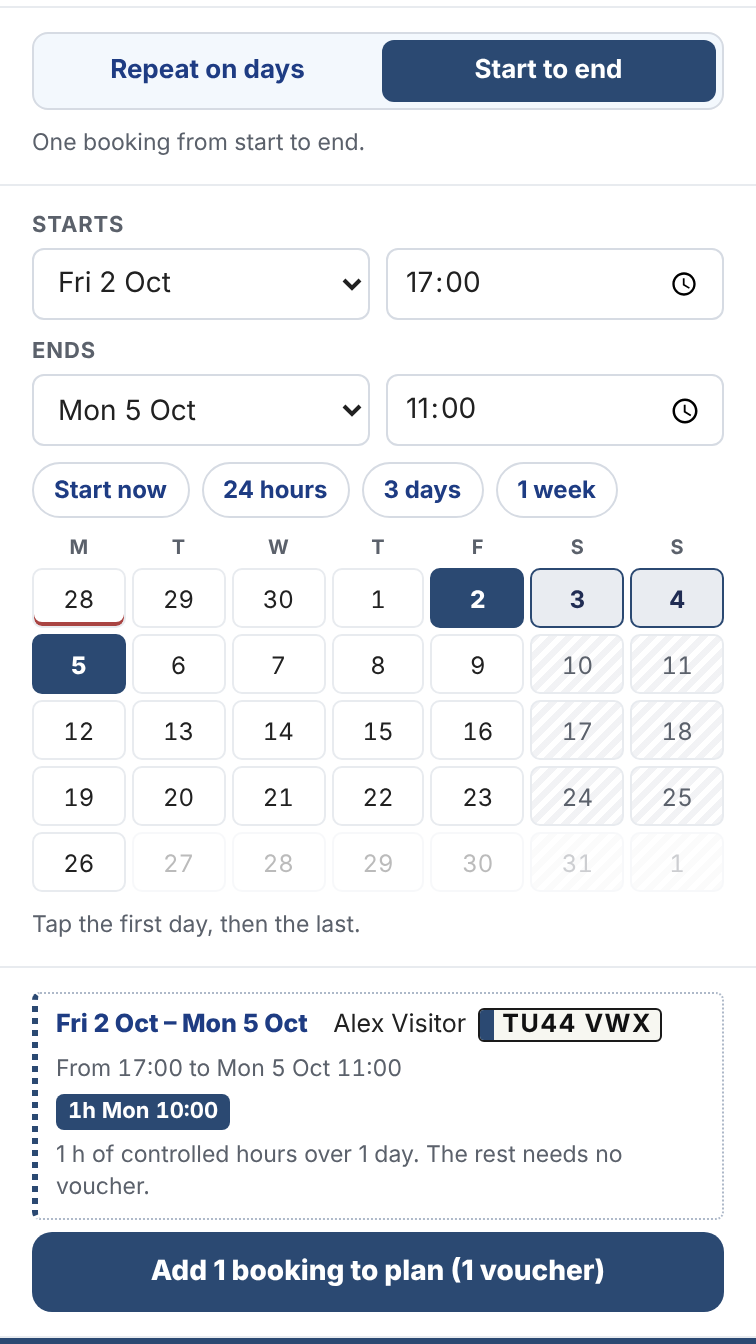
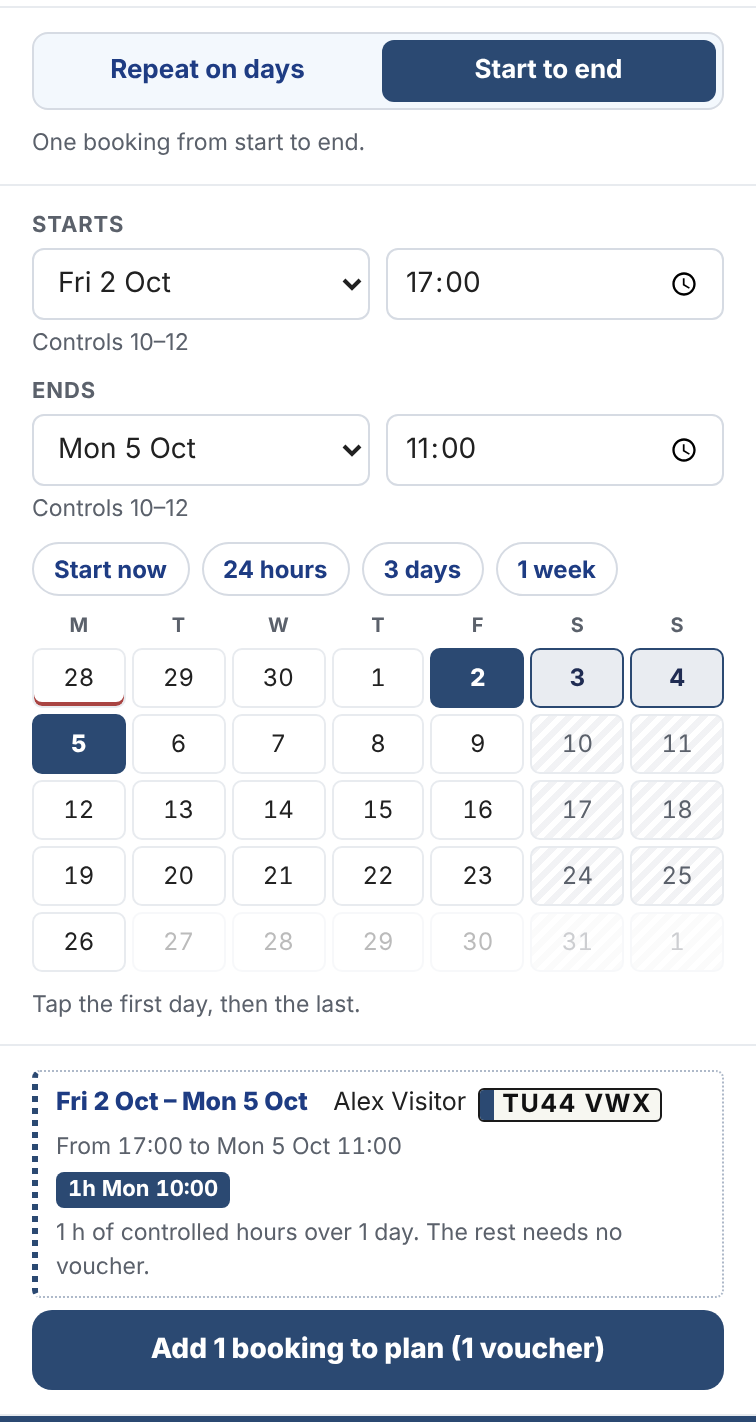
feat(ios): start to end by tapping the first and last day, with day and time wheels
- Book a visitor's Start to end has the calendar: tap the first day, then the last.
- Each end is one field for a day and a time: a day wheel beside the hour and minute
  wheels, or a typed time. Under it, that day's controls. The planned-booking sheet uses
  the same field.
- The When section notes the mode, as the extension does.
- Extension: Starts and Ends show their day's controls too.

Claude-Session: https://claude.ai/code/session_015JTfShffBEvdpiZUKNcpbT

diff --git a/apps/mobile/www/engine.js b/apps/mobile/www/engine.js
@@ -185,6 +185,7 @@
   // which: "start" or "end"; dk and min, either left out to keep it. A start chosen by hand no longer follows the clock.
   function quickStay(q, which, dk, min) {
     const s = q.stay || (q.stay = stayOf(q));
+    s.pick = "start";
     if (which === "start") {
       if (s.now) { s.now = false; s.dk = TK(); s.f = S.now; }
       if (dk) { const d = P.daysBetween(s.dk, s.toDk); s.dk = dk; s.toDk = key(addDays(fromKey(dk), Math.max(0, d))); if (s.toDk > lastDay()) s.toDk = lastDay(); }
@@ -192,11 +193,18 @@
     } else { if (dk) s.toDk = dk; if (min != null) s.t = +min; }
     return q;
   }
+  // Tapping days on the calendar: the first sets the start day, the next the end day.
+  function quickStayPick(q, dk) {
+    const s = q.stay || (q.stay = stayOf(q));
+    if (s.pick !== "end" || dk < (s.now ? TK() : s.dk)) { if (s.now) { s.now = false; s.f = S.now; } s.dk = dk; s.toDk = dk; s.pick = "end"; } else { s.toDk = dk; s.pick = "start"; }
+    return q;
+  }
   const lastDay = () => key(addDays(S.today, P.WINDOW_DAYS));
   // Presets in stay mode: start now, or end a number of days after the start.
   const STAY_LENS = { "1d": 1, "3d": 3, "1w": 7 };
   function stayPreset(q, p) {
     const s = q.stay || (q.stay = stayOf(q));
+    s.pick = "start";
     if (p === "now") { s.now = true; if (M.checkStay(ctx(), TK(), S.now, s.toDk, s.t).err) { s.toDk = key(addDays(S.today, 1)); s.t = S.now; } return q; }
     const n = STAY_LENS[p]; if (!n) return q;
     const start = s.now ? { dk: TK(), f: S.now } : s, toDk = key(addDays(fromKey(start.dk), n));
@@ -267,7 +275,7 @@
   function quickToggleDay(q, dk) { q.days = q.days.includes(dk) ? q.days.filter((x) => x !== dk) : [...q.days, dk].sort(); return q; }
   function quickPreview(q) {
     const sel = quickSel(q), cands = P.candidates(ctx(), sel, S.entries);
-    if (!cands.length) return { cands, items: [], text: !q.vrns.length ? "Choose a vehicle." : sel.err || (sel.stay ? "Already in your plan." : "Choose a day and a time."), notes: [], ok: false, bad: false, need: null };
+    if (!cands.length) return { cands, items: [], text: !q.vrns.length ? "Choose a vehicle." : sel.err && q.stay && q.stay.pick === "end" && q.stay.dk === q.stay.toDk ? "Now tap the last day, or choose when it ends." : sel.err || (sel.stay ? "Already in your plan." : "Choose a day and a time."), notes: [], ok: false, bad: false, need: null };
     cleanEntries();
     const p = P.allocate(ctx(), S.entries.concat(cands), S.balance), items = p.items.filter((i) => i.pending);
     const need = P.zero(); let bad = false;
@@ -685,7 +693,7 @@
     ctx, TK, vehicle, isFav, permitRef, controls, shortZone, status, byVehicle, visits, findVisit, vkey, plan, advice, replacedSet, ctlAt, nextControlled,
     zoneStatus, balanceText, isLong, ago, dayWindow, laneVehicles, weekStart, range, gbp, typesText,
     // quick-book
-    quickInit, quickExtend, quickSel, quickKind, quickMode, quickStay, stayCheck, quickPresets, quickApplyPreset, quickWhen, quickTime, quickDays, quickPickDays, quickToggleDay, quickPreview, suggest, addVehicle, addToPlan, bookNow,
+    quickInit, quickExtend, quickSel, quickKind, quickMode, quickStay, quickStayPick, stayCheck, quickPresets, quickApplyPreset, quickWhen, quickTime, quickDays, quickPickDays, quickToggleDay, quickPreview, suggest, addVehicle, addToPlan, bookNow,
     // plan and council
     removeEntry, clearPlan, setEntryTime, addDraft, planChange, cancelVisit, endEarly, bulk, bulkTimes, bulkMove, deleteFavourite, saveFavourite, buy, buyInBrowser,
     setSetting, setPermit, setZone, setPermitOn, setSubzone, signIn, signOut, openCouncil, shareReport, startDemo, leaveDemo,

diff --git a/apps/mobile/ios/Voucherboard/App/QuickBookSheet.swift b/apps/mobile/ios/Voucherboard/App/QuickBookSheet.swift
@@ -253,7 +253,7 @@ struct QuickBookSheet: View {
   }
 
   @ViewBuilder private func whenSection(_ v: QuickView) -> some View {
-    Section("When") {
+    Section {
       Picker("How to book", selection: Binding(get: { v.mode ?? "repeat" }, set: { update("quickMode", ["mode": $0]) })) {
         Text("Repeat on days").tag("repeat")
         Text("Start to end").tag("stay")
@@ -261,7 +261,7 @@ struct QuickBookSheet: View {
       .pickerStyle(.segmented)
       .labelsHidden()
       if v.stay == nil { repeatWhen(v) }
-    }
+    } header: { Text("When") } footer: { if let n = v.modeNote { Text(n) } }
   }
 
   @ViewBuilder private func repeatWhen(_ v: QuickView) -> some View {
@@ -297,16 +297,12 @@ struct QuickBookSheet: View {
           }
         }
       }
-      Picker("Starts", selection: Binding(get: { s.startDk }, set: { update("quickStay", ["which": "start", "dk": $0]) })) {
-        ForEach(s.days) { Text($0.label).tag($0.dk) }
-      }
-      Picker("Ends", selection: Binding(get: { s.endDk }, set: { update("quickStay", ["which": "end", "dk": $0]) })) {
-        ForEach(s.days.filter { $0.dk >= s.startDk }) { Text($0.label).tag($0.dk) }
-      }
-      AdaptiveStack(spacing: 12) {
-        TimePicker(label: s.now ? "Starts now" : "Start time", value: s.startMin) { update("quickStay", ["which": "start", "min": $0]) }
-        TimePicker(label: "End time", value: s.endMin) { update("quickStay", ["which": "end", "min": $0]) }
-      }
+      DayPicker(days: s.calendar) { update("quickStayPick", ["dk": $0]) }
+      Text(s.hint).font(.footnote).foregroundStyle(.secondary)
+      DayTimePicker(label: s.now ? "Starts now" : "Starts", day: s.startDk, minute: s.startMin, days: s.days,
+                    pickDay: { update("quickStay", ["which": "start", "dk": $0]) }, pickTime: { update("quickStay", ["which": "start", "min": $0]) })
+      DayTimePicker(label: "Ends", day: s.endDk, minute: s.endMin, days: s.days.filter { $0.dk >= s.startDk },
+                    pickDay: { update("quickStay", ["which": "end", "dk": $0]) }, pickTime: { update("quickStay", ["which": "end", "min": $0]) })
       if !s.msg.isEmpty { Text(s.msg).font(.footnote).foregroundStyle(Color.vbText2) }
     } header: { Text("Start and end") }
   }
@@ -357,12 +353,12 @@ struct DayPicker: View {
             .font(.subheadline.weight(d.today ? .bold : .regular)).monospacedDigit()
             .frame(maxWidth: .infinity, minHeight: 36)
             .foregroundStyle(d.on ? Color.white : !d.enabled || d.off ? Color.secondary : .primary)
-            .background(RoundedRectangle(cornerRadius: 8).fill(d.on ? Color.vbAccent : d.off ? Color(.tertiarySystemFill) : .clear))
+            .background(RoundedRectangle(cornerRadius: 8).fill(d.on ? Color.vbAccent : d.mid == true ? Color.vbSoft : d.off ? Color(.tertiarySystemFill) : .clear))
         }
         .buttonStyle(.plain)
         .disabled(!d.enabled)
         .accessibilityLabel(Text(d.label))
-        .accessibilityAddTraits(d.on ? .isSelected : [])
+        .accessibilityAddTraits(d.on || d.mid == true ? .isSelected : [])
       }
     }
   }

diff --git a/apps/mobile/www/views.js b/apps/mobile/www/views.js
@@ -24,8 +24,8 @@
   const longE = (e) => e.to > 1440;
   const endDk = (e) => key(addDays(fromKey(e.dk), Math.floor((e.to - 1) / 1440)));
   const touches = (e, dk) => dk >= e.dk && dk <= endDk(e);
-  // The days bookings can be made, for start and end pickers.
-  const windowDays = () => [...Array(P.WINDOW_DAYS + 1)].map((_, i) => { const d = addDays(S.today, i), dk = key(d); return { dk, label: (dk === E.TK() ? "Today, " : "") + fmtDay(d) }; });
+  // The days bookings can be made, with their controls, for start and end pickers.
+  const windowDays = () => [...Array(P.WINDOW_DAYS + 1)].map((_, i) => { const d = addDays(S.today, i), dk = key(d); return { dk, label: (dk === E.TK() ? "Today, " : "") + fmtDay(d), ctl: M.ctlLine(S.zone, d) }; });
   const dayBits = (dk) => { const d = fromKey(dk); return { day: dk === E.TK() ? "Today" : DOW[P.isoDow(d) - 1], date: `${d.getDate()} ${MON[d.getMonth()]}` }; };
 
   // ---------- shared rows ----------
@@ -285,9 +285,12 @@
   function quick(q) {
     const pv = E.quickPreview(q), sel = E.quickSel(q), st = q.mode === "stay" ? q.stay : null;
     // Start to end: the start (now, or a day and time) and the end, with the days to choose from.
-    const stay = st ? { now: !!st.now, startDk: st.now ? E.TK() : st.dk, startMin: st.now ? S.now : st.f, endDk: st.toDk, endMin: st.t, days: windowDays(), msg: sel.msg || "" } : null;
+    // The calendar shows the stretch: its first and last day on, the days between mid.
+    const sd = st && (st.now ? E.TK() : st.dk);
+    const calendar = st ? E.quickDays({ days: [] }).days.map((d) => ({ ...d, on: d.dk === sd || d.dk === st.toDk, mid: d.dk > sd && d.dk < st.toDk })) : null;
+    const stay = st ? { now: !!st.now, startDk: sd, startMin: st.now ? S.now : st.f, endDk: st.toDk, endMin: st.t, days: windowDays(), msg: sel.msg || "", calendar, hint: st.pick === "end" ? "Now tap the last day." : "Tap the first day, then the last." } : null;
     return {
-      q, mode: q.mode || "repeat", stay, when: q.when, presets: E.quickPresets(q), days: q.when === "days" ? E.quickDays(q) : null,
+      q, mode: q.mode || "repeat", modeNote: st ? "One booking from start to end." : "The same times on each day you pick.", stay, when: q.when, presets: E.quickPresets(q), days: q.when === "days" ? E.quickDays(q) : null,
       from: sel.from, to: sel.to, fromText: hm(sel.from), toText: hm(sel.to), fromEditable: q.when !== "now", limits: limits(sel.days),
       note: q.when === "now" ? "Starts now. Hours outside controls are skipped; no voucher is needed then." : "Hours outside controls are skipped; no voucher is needed then.",
       vehicles: q.vrns.map((vrn) => { const v = E.vehicle(vrn); return { vrn, plate: plate(vrn), name: E.isFav(v) ? v.nick : plate(vrn) }; }), kinds: kinds(sel.kind),

diff --git a/apps/mobile/ios/Voucherboard/App/Models.swift b/apps/mobile/ios/Voucherboard/App/Models.swift
@@ -208,23 +208,29 @@ struct QuickForm: Codable, Equatable {
 }
 
 /// A start-to-end booking: from minute `f` of day `dk` (or now) to minute `t` of day `toDk`.
-struct QuickStay: Codable, Equatable { var now: Bool; var dk: String; var f: Int; var toDk: String; var t: Int }
+/// `pick` is which day the next calendar tap sets: "start" or "end".
+struct QuickStay: Codable, Equatable { var now: Bool; var dk: String; var f: Int; var toDk: String; var t: Int; var pick: String? }
 
-/// A day a booking can start or end on.
-struct DayOption: Decodable, Identifiable, Hashable { let dk: String; let label: String; var id: String { dk } }
+/// A day a booking can start or end on, with its controls ("Controls 10–12", "No controls").
+struct DayOption: Decodable, Identifiable, Hashable { let dk: String; let label: String; let ctl: String; var id: String { dk } }
 
 struct QuickView: Decodable {
   struct Preset: Decodable, Identifiable { let id: String; let label: String; let on: Bool }
   struct Days: Decodable {
     struct Choice: Decodable, Identifiable { let id: String; let label: String }
-    struct Day: Decodable, Identifiable { let dk: String; let date: Int; let label: String; let off: Bool; let today: Bool; let on: Bool; let enabled: Bool; var id: String { dk } }
+    /// `mid`: a day between a start-to-end booking's first and last.
+    struct Day: Decodable, Identifiable { let dk: String; let date: Int; let label: String; let off: Bool; let today: Bool; let on: Bool; let enabled: Bool; var mid: Bool? = nil; var id: String { dk } }
     let choices: [Choice], days: [Day], count: Int
   }
   struct Vehicle: Decodable, Identifiable { let vrn: String; let plate: String; let name: String; var id: String { vrn } }
   struct Preview: Decodable { let text: String; let notes: [String]; let ok: Bool; let bad: Bool; let canAdd: Bool; let canBook: Bool }
   /// Start to end: where it starts (now, or a day and time) and ends, and the days to choose from.
-  struct Stay: Decodable { let now: Bool; let startDk: String; let startMin: Int; let endDk: String; let endMin: Int; let days: [DayOption]; let msg: String }
-  let mode: String?, stay: Stay?
+  /// With the calendar to tap the first and last day on.
+  struct Stay: Decodable {
+    let now: Bool; let startDk: String; let startMin: Int; let endDk: String; let endMin: Int; let days: [DayOption]; let msg: String
+    let calendar: [Days.Day]; let hint: String
+  }
+  let mode: String?, modeNote: String?, stay: Stay?
   let q: QuickForm, when: String, presets: [Preset], days: Days?, from: Int, to: Int, fromText: String, toText: String
   let fromEditable: Bool, limits: Span?, note: String, vehicles: [Vehicle], preview: Preview
   let kinds: [KindOption]?

diff --git a/apps/mobile/ios/Voucherboard/App/Components.swift b/apps/mobile/ios/Voucherboard/App/Components.swift
@@ -290,6 +290,52 @@ struct TimePicker: View {
 
 /// Type a time instead of spinning. A whole time ("10:30", "1030") is set as typed, which moves the wheels; Return sets
 /// a shorter one ("930", "10") and closes. Outside `range`, it says what's allowed.
+/// A day and a time together, as a start-to-end booking's start or end: tap for a day wheel beside hour and minute
+/// wheels, or type the time in. The day's controlled hours show under it.
+struct DayTimePicker: View {
+  let label: String
+  let day: String
+  let minute: Int
+  let days: [DayOption]
+  let pickDay: (String) -> Void
+  let pickTime: (Int) -> Void
+  @State private var open = false
+  private var dayText: String { days.first { $0.dk == day }?.label ?? day }
+  private var controls: String { days.first { $0.dk == day }?.ctl ?? "" }
+
+  var body: some View {
+    Button { open = true } label: {
+      VStack(alignment: .leading, spacing: 2) {
+        Text(label).font(.caption).foregroundStyle(.secondary)
+        Text("\(dayText), \(hm(minute))").font(.title3.weight(.semibold)).monospacedDigit()
+        Text(controls).font(.caption).foregroundStyle(Color.vbText2)
+      }
+      .frame(maxWidth: .infinity, alignment: .leading)
+      .padding(.horizontal, 14).padding(.vertical, 10)
+      .background(Color(.tertiarySystemFill), in: RoundedRectangle(cornerRadius: 12))
+    }
+    .buttonStyle(.borderless)
+    .popover(isPresented: $open) {
+      VStack(spacing: 8) {
+        Text(controls).font(.footnote).foregroundStyle(.secondary)
+        TimeField(label: label, range: 0...(23 * 60 + 55), pick: pickTime) { open = false }
+        HStack(spacing: 0) {
+          Picker("Day", selection: Binding(get: { day }, set: pickDay)) {
+            ForEach(days) { Text($0.label).tag($0.dk) }
+          }
+          .pickerStyle(.wheel)
+          .frame(width: 170)
+          .clipped()
+          TimeWheels(value: minute, range: 0...(23 * 60 + 55), pick: pickTime).fixedSize()
+        }
+      }
+      .padding([.horizontal, .top])
+      .presentationCompactAdaptation(.popover)
+    }
+    .accessibilityLabel(Text("\(label) \(dayText), \(hm(minute)). \(controls)"))
+  }
+}
+
 private struct TimeField: View {
   let label: String
   let range: ClosedRange<Int>

diff --git a/extension/src/app.js b/extension/src/app.js
@@ -130,8 +130,8 @@
     <div class="c-sec"><div class="modes" role="radiogroup" aria-label="How to book"><button type="button" role="radio" id="mRepeat">Repeat on days</button><button type="button" role="radio" id="mStay">Start to end</button></div>
       <span class="note" id="modeNote"></span></div>
     <div class="c-sec" id="staySec" hidden>
-      <div class="ctl"><label for="sFromD">Starts</label><div class="dt"><select id="sFromD"></select><input type="time" id="sFrom" step="60" aria-label="Start time"></div></div>
-      <div class="ctl"><label for="sToD">Ends</label><div class="dt"><select id="sToD"></select><input type="time" id="sTo" step="60" aria-label="End time"></div></div>
+      <div class="ctl"><label for="sFromD">Starts</label><div class="dt"><select id="sFromD"></select><input type="time" id="sFrom" step="60" aria-label="Start time"></div><span class="note" id="sFromCtl"></span></div>
+      <div class="ctl"><label for="sToD">Ends</label><div class="dt"><select id="sToD"></select><input type="time" id="sTo" step="60" aria-label="End time"></div><span class="note" id="sToCtl"></span></div>
       <div class="quick" id="squick"></div>
       <div class="adj" id="sadj" hidden></div>
       <div class="mini" id="smini"></div>
@@ -805,6 +805,7 @@
       if (idle("#sToD")) setHTML($("#sToD"), dayOpts(s.toDk, s.dk));
       if (idle("#sFrom")) $("#sFrom").value = hm(s.f);
       if (idle("#sTo")) $("#sTo").value = hm(s.t);
+      $("#sFromCtl").textContent = M.ctlLine(S.zone, fromKey(s.dk)); $("#sToCtl").textContent = M.ctlLine(S.zone, fromKey(s.toDk));
       setHTML($("#squick"), `<button type="button" class="qbtn" id="sNow">Start now</button>` + STAY_LENS.map(([l], i) => `<button type="button" class="qbtn" data-sq="${i}">${l}</button>`).join(""));
       $("#sadj").hidden = !S.sadj; $("#sadj").textContent = S.sadj;
     }

diff --git a/test/engine.test.js b/test/engine.test.js
@@ -573,3 +573,18 @@ test("quick-book start to end: one booking over several days, its mode remembere
   assert.strictEqual(t.storage["vb:settings"].bookMode, "stay");
   assert.strictEqual((await t.call("quickInit", { opts: {} })).mode, "stay", "the next form opens in the same mode");
 });
+
+test("quick-book start to end: tap the first and last day, and each day says its controls", async () => {
+  const t = await setup();
+  let v = await t.call("quickInit", { opts: { vrns: ["LM11NPR"] } });
+  v = await t.call("quickMode", { q: v.q, mode: "stay" });
+  assert.strictEqual(v.modeNote, "One booking from start to end.");
+  v = await t.call("quickStayPick", { q: v.q, dk: "2026-10-02" });
+  assert.deepStrictEqual([v.stay.now, v.stay.startDk, v.stay.endDk, v.stay.hint], [false, "2026-10-02", "2026-10-02", "Now tap the last day."]);
+  v = await t.call("quickStayPick", { q: v.q, dk: "2026-10-05" });
+  const cal = Object.fromEntries(v.stay.calendar.map((d) => [d.dk, d.on ? "on" : d.mid ? "mid" : ""]));
+  assert.deepStrictEqual([cal["2026-10-02"], cal["2026-10-03"], cal["2026-10-04"], cal["2026-10-05"], cal["2026-10-06"]], ["on", "mid", "mid", "on", ""]);
+  const ctl = Object.fromEntries(v.stay.days.map((d) => [d.dk, d.ctl]));
+  assert.deepStrictEqual([ctl["2026-10-02"], ctl["2026-10-03"]], ["Controls 10–12", "No controls"]);
+  assert.strictEqual((await t.call("quickMode", { q: v.q, mode: "repeat" })).modeNote, "The same times on each day you pick.");
+});

diff --git a/extension/src/model.js b/extension/src/model.js
@@ -136,6 +136,8 @@
   }
 
   // ---------- times ----------
+  // "Controls 10–12", "No controls" or "Hours unknown": a day's controls, for start and end pickers.
+  const ctlLine = (zone, d) => { const t = ctlText(zone, d); return /\d/.test(t) ? "Controls " + t : t; };
   const ctlText = (zone, d) => { const c = P.controls(zone, d); if (!c) return "Hours unknown"; return c.length ? c.map((x) => hShort(x.f) + "–" + hShort(x.t)).join(", ") : "No controls"; };
   // A booking time on one day, to the minute: not in the past, and partly in controlled hours (the rest is
   // skipped when vouchers are chosen). ctx: { zone, today, now }. Returns { f, t, msg } or { err }.
@@ -322,7 +324,7 @@
   }
 
   root.VB = root.VB || {};
-  root.VB.model = { DOW, MON, fmtDay, hShort, endText, rangeText, startEnd, todayDate, nowMin, vText, plural, ctlText, zoneCode, zoneGroups, pickPermits, planKey, readPlan, readSubzone,
+  root.VB.model = { DOW, MON, fmtDay, hShort, endText, rangeText, startEnd, todayDate, nowMin, vText, plural, ctlText, ctlLine, zoneCode, zoneGroups, pickPermits, planKey, readPlan, readSubzone,
     permitsText, dropChangesOff, byAge, orderPermits, addAges, withVouchers, balanceShort, readPermit, combine, loadPermitData, mergeVehicles, checkTimes, checkStay,
     buildOps, requestCount, runOps, missingAfterRun, runNote, runSummary, cancelIds, errorReport };
 })(typeof globalThis !== "undefined" ? globalThis : this);

diff --git a/apps/mobile/www/engine-host.js b/apps/mobile/www/engine-host.js
@@ -15,7 +15,7 @@
     quickInit: (a) => V.quick(E.quickInit(a.opts || {})), quickExtend: (a) => V.quick(E.quickExtend(a.vrn, a.dk, +a.end)), quickView: (a) => V.quick(a.q),
     quickWhen: (a) => V.quick(E.quickWhen(a.q, a.when)), quickPreset: (a) => V.quick(E.quickApplyPreset(a.q, a.preset)), quickTime: (a) => V.quick(E.quickTime(a.q, a.which, a.min)),
     quickPickDays: (a) => V.quick(E.quickPickDays(a.q, a.id)), quickToggleDay: (a) => V.quick(E.quickToggleDay(a.q, a.dk)), quickKind: (a) => V.quick(E.quickKind(a.q, a.kind)),
-    quickMode: (a) => V.quick(E.quickMode(a.q, a.mode)), quickStay: (a) => V.quick(E.quickStay(a.q, a.which, a.dk, a.min)),
+    quickMode: (a) => V.quick(E.quickMode(a.q, a.mode)), quickStay: (a) => V.quick(E.quickStay(a.q, a.which, a.dk, a.min)), quickStayPick: (a) => V.quick(E.quickStayPick(a.q, a.dk)),
     confirm: (a) => V.confirm(a.q, a.email), addVehicle: (a) => E.addVehicle(a), addToPlan: (a) => E.addToPlan(a.q), bookNow: (a) => E.bookNow(a.q, a.email),
     // plan and council
     removeEntry: (a) => E.removeEntry(a.id), clearPlan: () => E.clearPlan(), setEntryTime: (a) => E.setEntryTime(a.id, a.from, a.to, a.kind, a.dk, a.toDk), addDraft: (a) => E.addDraft(a.vrn, a.dk, a.from, a.to),

diff --git a/apps/mobile/ios/Voucherboard/App/Sheets.swift b/apps/mobile/ios/Voucherboard/App/Sheets.swift
@@ -122,12 +122,8 @@ struct EntrySheet: View {
             LabeledContent(e.dayText, value: e.ctl)
             if let st = e.stay {
               // Start to end: a day and a time for each end.
-              Picker("Starts", selection: $fromDk) { ForEach(st.days) { Text($0.label).tag($0.dk) } }
-              Picker("Ends", selection: $toDk) { ForEach(st.days.filter { $0.dk >= fromDk }) { Text($0.label).tag($0.dk) } }
-              HStack(spacing: 12) {
-                TimePicker(label: "Start time", value: from) { from = $0 }
-                TimePicker(label: "End time", value: to) { to = $0 }
-              }
+              DayTimePicker(label: "Starts", day: fromDk, minute: from, days: st.days, pickDay: { fromDk = $0; if toDk < $0 { toDk = $0 } }, pickTime: { from = $0 })
+              DayTimePicker(label: "Ends", day: toDk, minute: to, days: st.days.filter { $0.dk >= fromDk }, pickDay: { toDk = $0 }, pickTime: { to = $0 })
             } else {
               let r = timeRanges(e.limits)
               HStack(spacing: 12) {

diff --git a/apps/mobile/BRIDGE.md b/apps/mobile/BRIDGE.md
@@ -159,13 +159,14 @@ On iOS, SwiftUI draws the screens. The web view stays, but loads `www/engine.htm
   - `quickInit { opts }`, `quickExtend { vrn, dk, end }`, `quickView { q }`
   - `quickWhen { q, when }`, `quickPreset { q, preset }`, `quickTime { q, which, min }`
   - `quickPickDays { q, id }`, `quickToggleDay { q, dk }`
-  - `quickMode { q, mode }`: `repeat` books the same times on each chosen day; `stay` books one stretch from a start to an end, over as many days as it takes (`q.stay`: `{ now, dk, f, toDk, t }`). The mode is remembered for the next form. In `stay` mode the `quick` view has `stay`: `{ now, startDk, startMin, endDk, endMin, days: [{ dk, label }], msg }` (null otherwise), and `presets` are `now`, `1d`, `3d` and `1w`.
+  - `quickMode { q, mode }`: `repeat` books the same times on each chosen day; `stay` books one stretch from a start to an end, over as many days as it takes (`q.stay`: `{ now, dk, f, toDk, t }`). The mode is remembered for the next form. In `stay` mode the `quick` view has `stay`: `{ now, startDk, startMin, endDk, endMin, days: [{ dk, label, ctl }], msg, calendar, hint }` (null otherwise; `calendar` days as in `quickDays`, the first and last `on`, those between `mid`), `presets` are `now`, `1d`, `3d` and `1w`, and `modeNote` describes the mode.
+  - `quickStayPick { q, dk }`: a tap on the calendar. The first sets the start day, the next the end day.
   - `quickStay { q, which, dk?, min? }`: `which` is `start` or `end`; a start set by hand no longer follows the clock.
   - `quickKind { q, kind }`: one voucher type (`h1`, `h5`, `day`, `week`) or `""` for the cheapest mix. While the `pickKinds` setting is on, the `quick`, `entry` and `visit` views have `kinds`: `[{ id, label, detail, on }]`, the first being the cheapest mix. Otherwise `kinds` is null and no choice is shown.
 
   Then `confirm { q, email }`, `addVehicle { vrn, save, nick }`, `addToPlan { q }` and `bookNow { q, email }`.
 - **Actions.** Each returns `{ toast?, undo?, err? }`. Show `toast` as a message, and offer Undo by calling `undo { id: undo }`:
-  - Plan: `removeEntry { id }`, `clearPlan`, `setEntryTime { id, from, to, kind?, dk?, toDk? }` (with `toDk`, a start-to-end booking from `from` on `dk` to `to` on `toDk`; the `entry` view has `stay: { dk, toDk, days }` for one, and its `to` is the time on `toDk`), `addDraft { vrn, dk, from, to }`, `planChange { key, from, to, kind? }` (`kind` as in `quickKind`; left out, an entry keeps its type), `bulkMove { keys, mode, from, to, shift }`
+  - Plan: `removeEntry { id }`, `clearPlan`, `setEntryTime { id, from, to, kind?, dk?, toDk? }` (with `toDk`, a start-to-end booking from `from` on `dk` to `to` on `toDk`; the `entry` view has `stay: { dk, toDk, days }` (`days` as in `quick`) for one, and its `to` is the time on `toDk`), `addDraft { vrn, dk, from, to }`, `planChange { key, from, to, kind? }` (`kind` as in `quickKind`; left out, an entry keeps its type), `bulkMove { keys, mode, from, to, shift }`
   - Council: `cancelVisit { key }`, `endEarly { key, index }`, `bulkApply { keys }`, `deleteFavourite { vrn }`, `saveFavourite { vrn, nick, isNew }`, `buy { kind, n }`
   - Runs: `review`, `runGo`, `stopRun`, `closeRun`
   - Settings and account: `acceptTerms`, `load { keepPermits }`, `setSetting { key, value }`, `setZone { code }` (uses every visitor permit in that zone), `setPermitOn { id, on }` (one of the zone's permits in or out of use; the last one stays on), `setPermit { id }` (older shells: that permit's zone, with that permit alone), `setSubzone { code }`, `signIn`, `signOut`, `openCouncil`, `shareReport`
